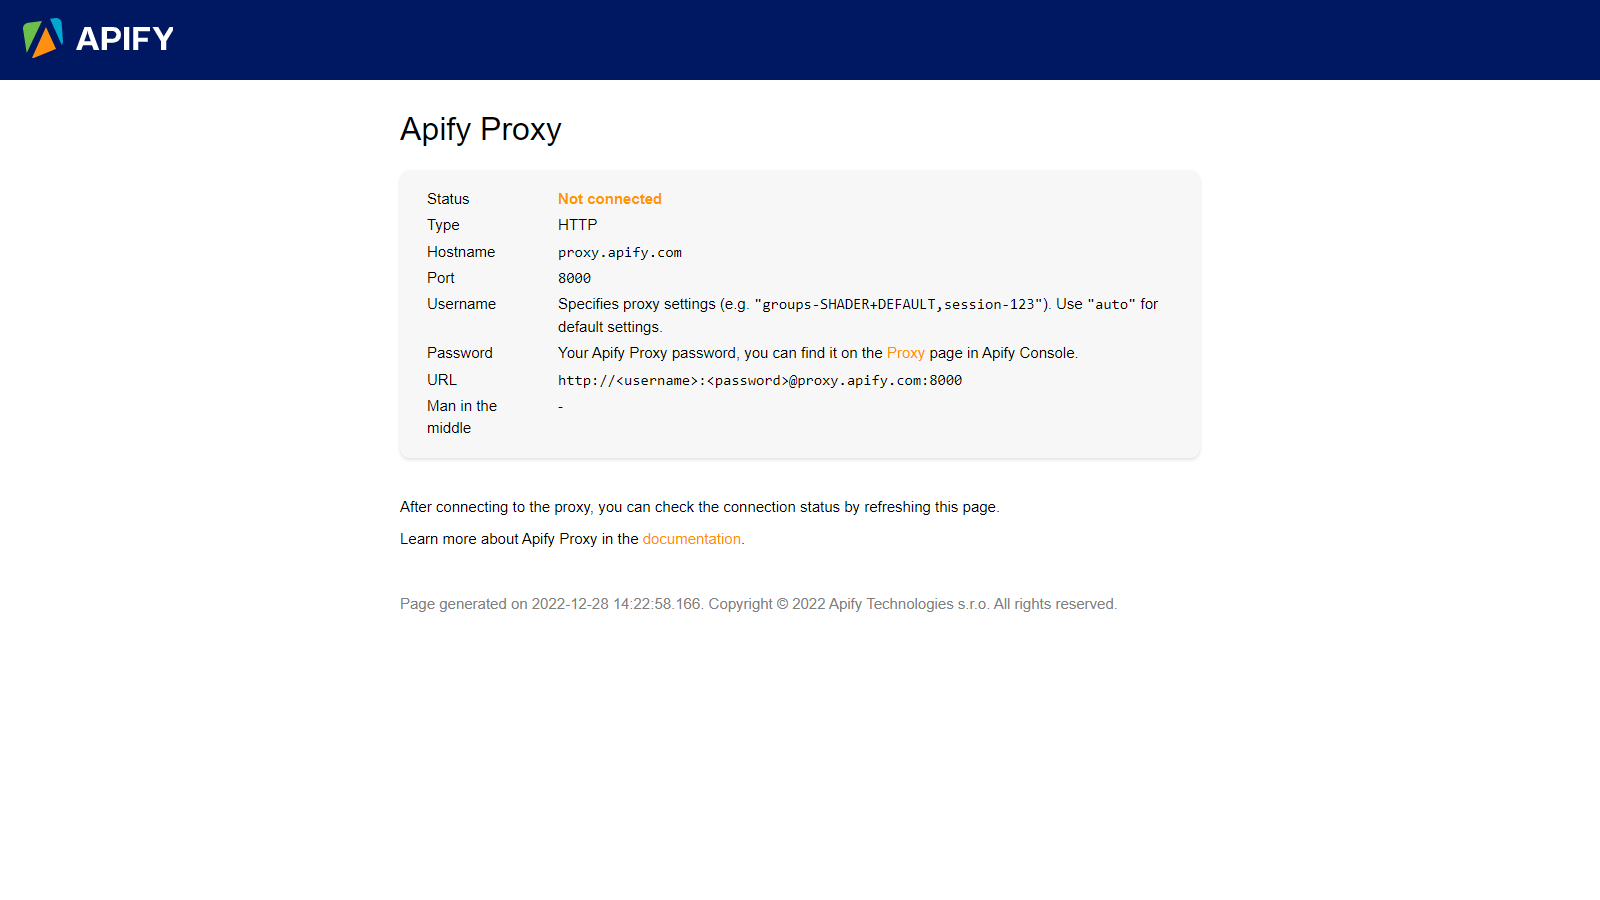
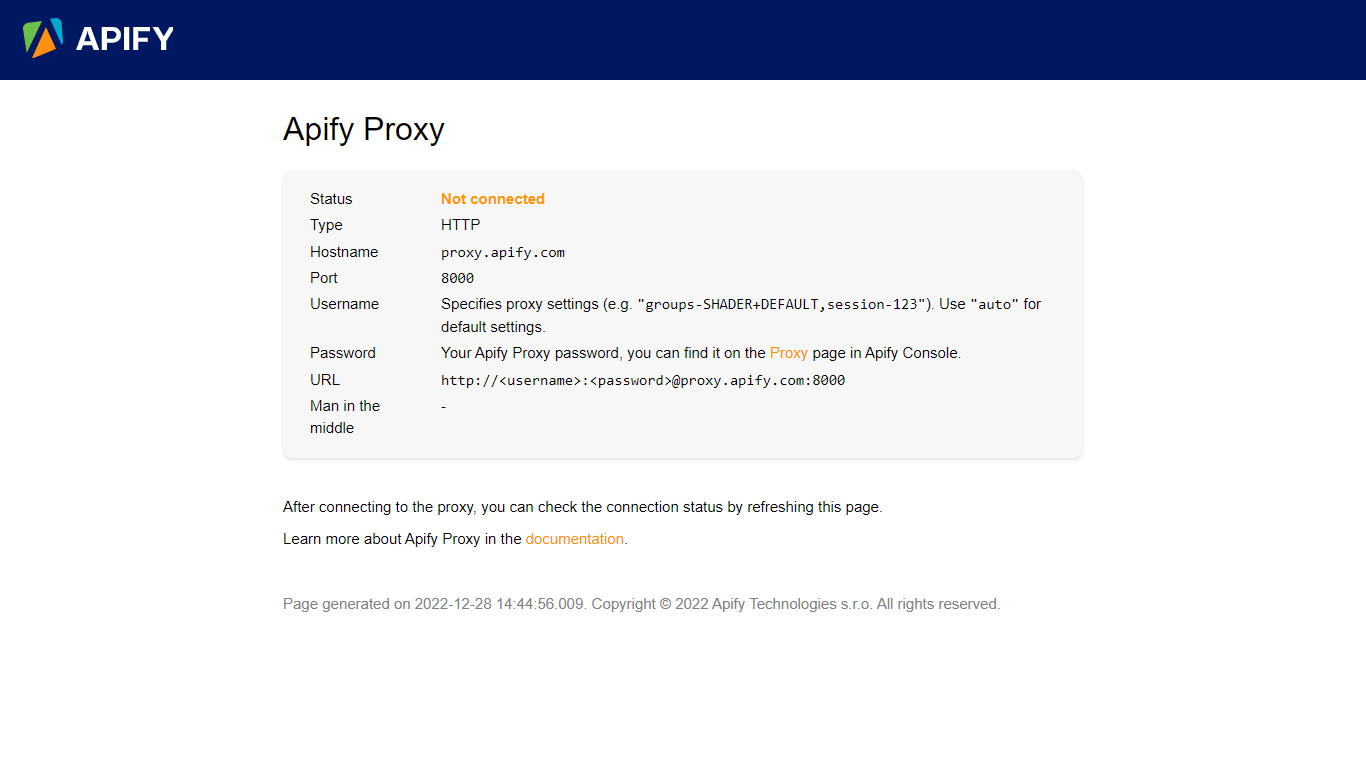
cheericrawwler edbug log

diff --git a/src/validation/Validator.ts b/src/validation/Validator.ts
@@ -25,8 +25,11 @@ export class Validator {
     public async validate(url: string, keywords: NormalizedKeywordPair[], searchResults: SearchResults): Promise<{conclusion: KeywordConclusion[], xhrValidated: XhrValidation[]}> {
         let validatedData: KeywordConclusion[];
         let xhrValidated:XhrValidation[] = [];
+        // load initial html
+        const cheerioCrawlerLoaded = await this.loadHtml(url);
+
         // if we failed to load initial response of
-        if (await this.loadHtml(url) == false) {
+        if (cheerioCrawlerLoaded == false) {
             // fill keyword conclusion with unvalidated data
             validatedData =  this.createConclusion(searchResults,[], keywords);
         } else {
@@ -94,6 +97,8 @@ export class Validator {
      * @returns 
      */
     public async loadHtml(url: string): Promise<boolean> {
+        log.info("CheerioCrawler: loading input");
+
         const options: CheerioCrawlerOptions = {
             async errorHandler({ request }) {
                 log.info(`Request ${request.url} failed 15 times. Data found can not be validated.`);

diff --git a/storage/key_value_stores/default/cheerioCrawlerInitial.html b/storage/key_value_stores/default/cheerioCrawlerInitial.html
@@ -176,7 +176,7 @@
                         </p>
                         <br>
                         <p class="note">
-                            Page generated on 2022-12-28 14:23:09.575.
+                            Page generated on 2022-12-28 14:38:10.036.
                             Copyright © 2022 Apify Technologies s.r.o.
                             All rights reserved.
                         </p>

diff --git a/storage/key_value_stores/default/initial.html b/storage/key_value_stores/default/initial.html
@@ -177,7 +177,7 @@
                         </p>
                         <br>
                         <p class="note">
-                            Page generated on 2022-12-28 14:22:58.166.
+                            Page generated on 2022-12-28 14:44:56.009.
                             Copyright © 2022 Apify Technologies s.r.o.
                             All rights reserved.
                         </p>

diff --git a/storage/key_value_stores/default/rendered.html b/storage/key_value_stores/default/rendered.html
@@ -170,7 +170,7 @@
                         </p>
                         <br>
                         <p class="note">
-                            Page generated on 2022-12-28 14:22:58.166.
+                            Page generated on 2022-12-28 14:44:56.009.
                             Copyright © 2022 Apify Technologies s.r.o.
                             All rights reserved.
                         </p>
